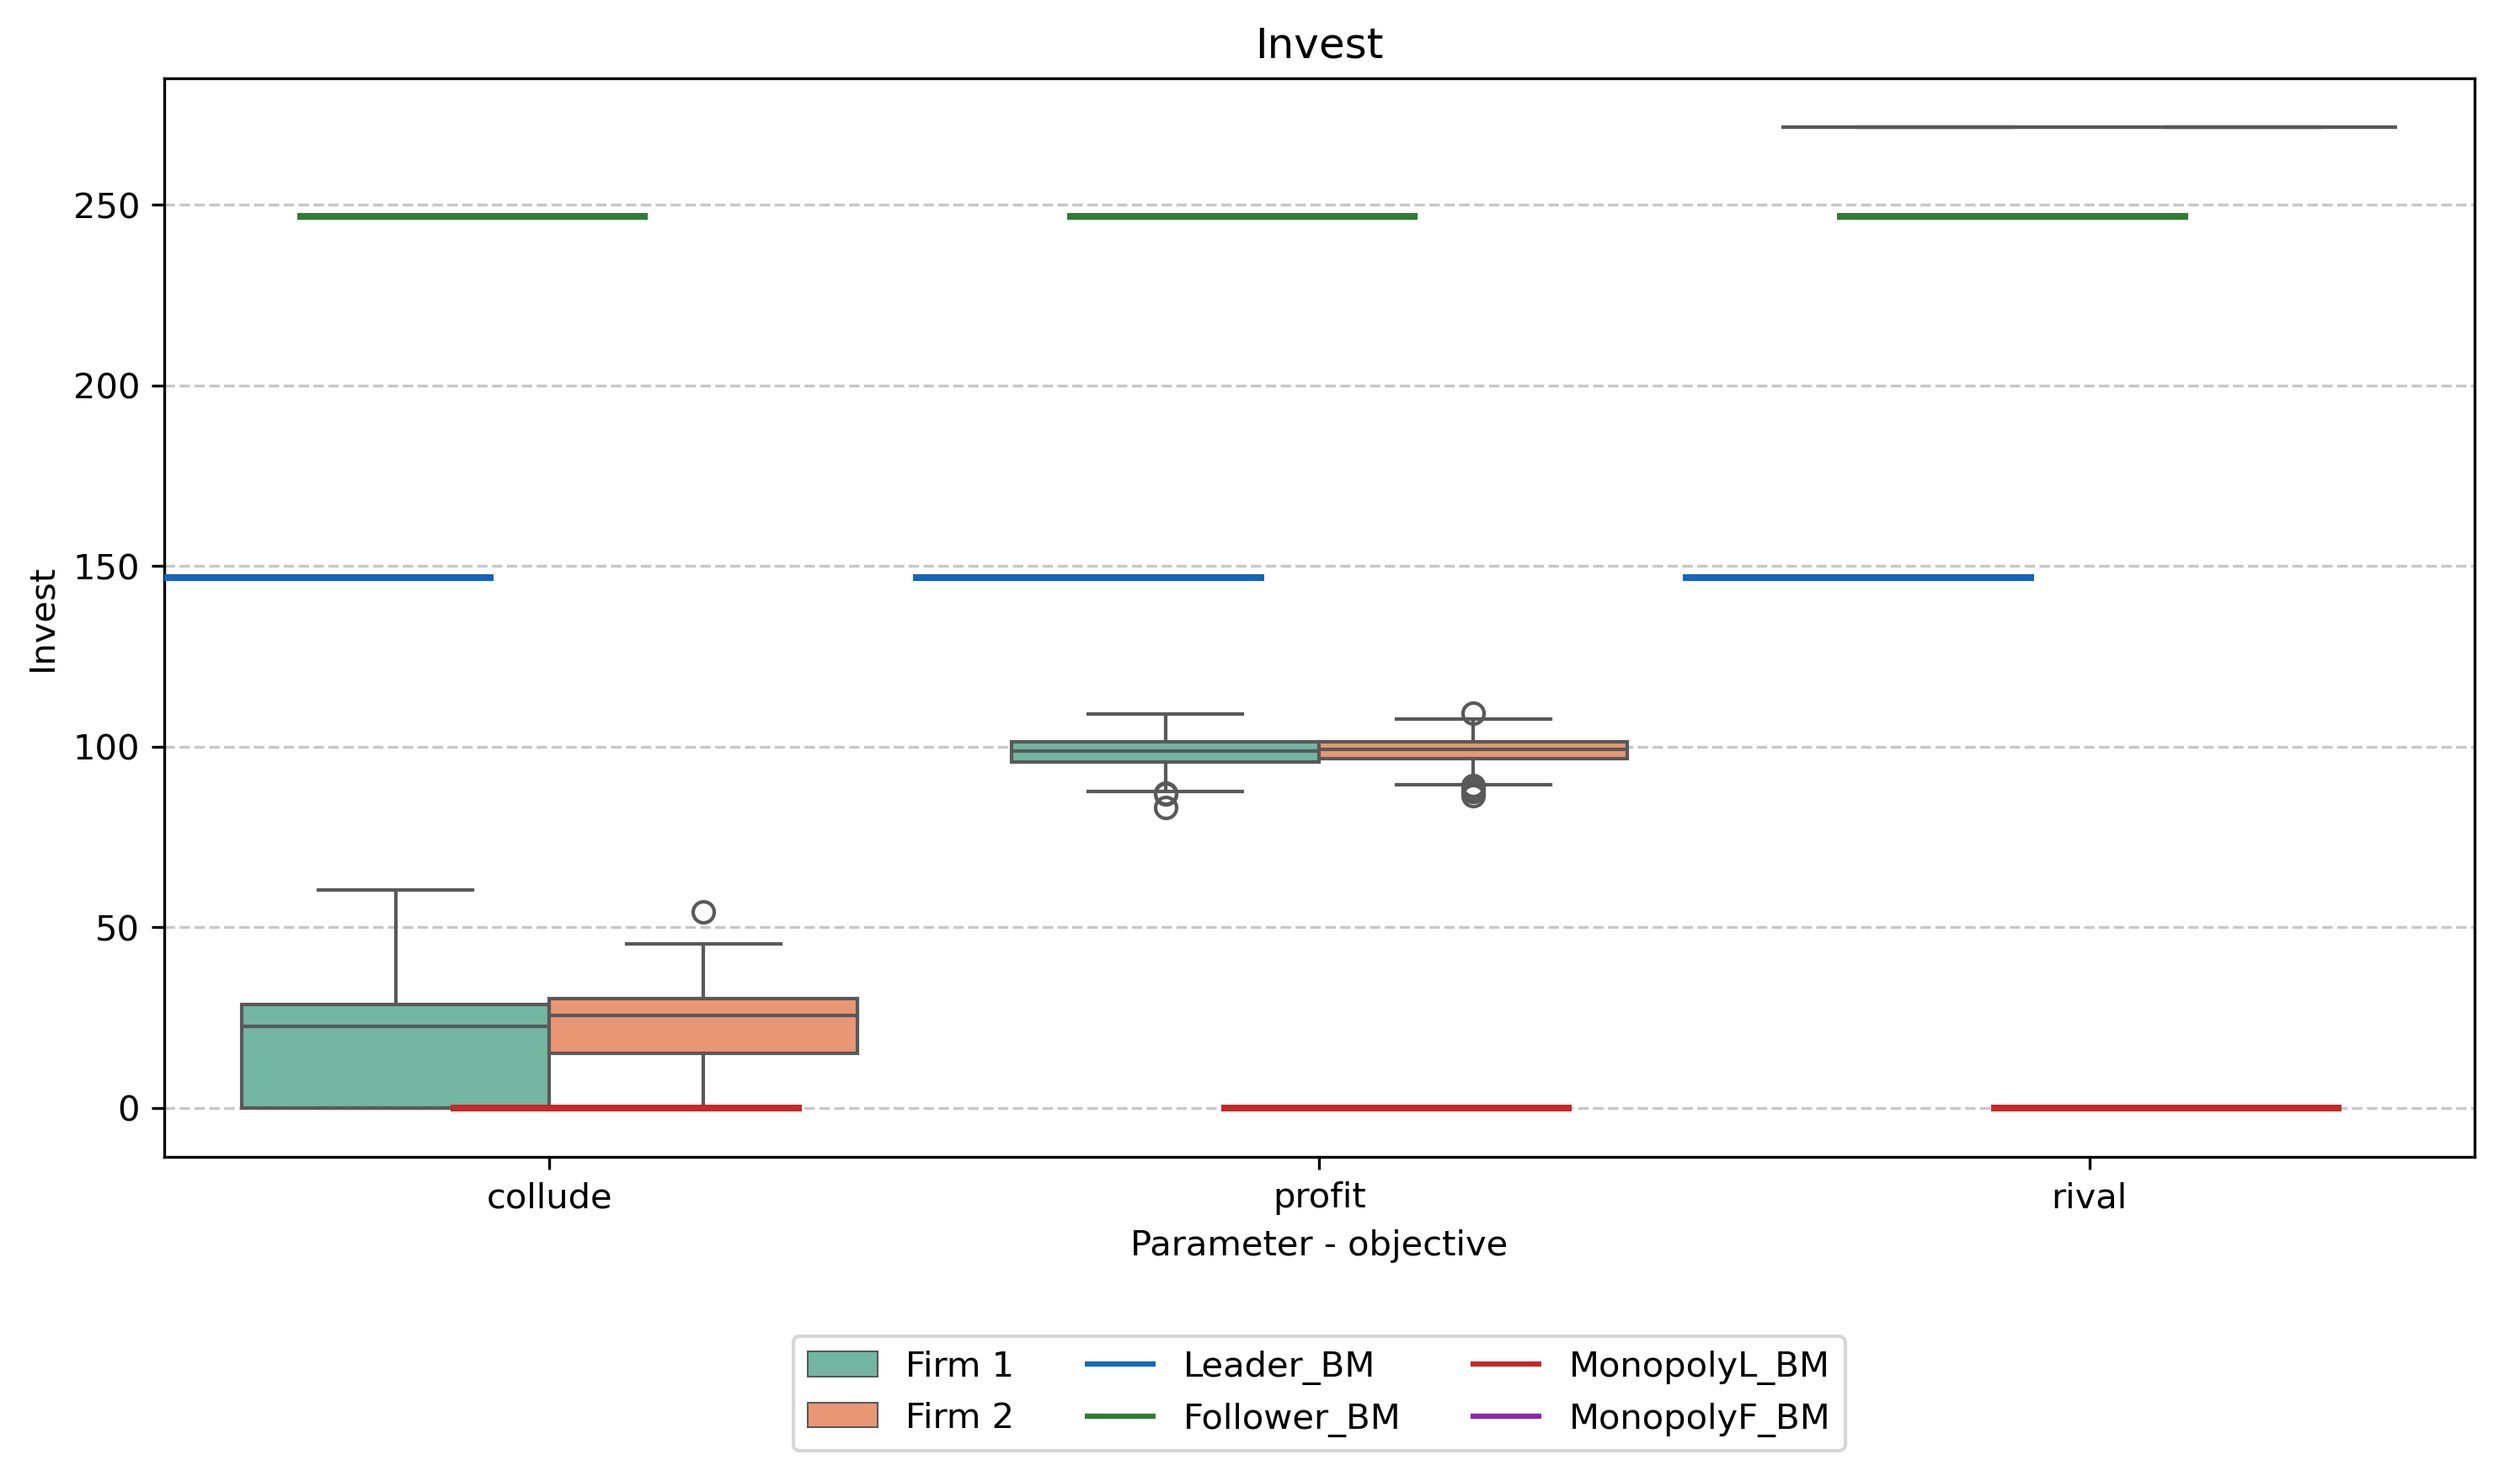
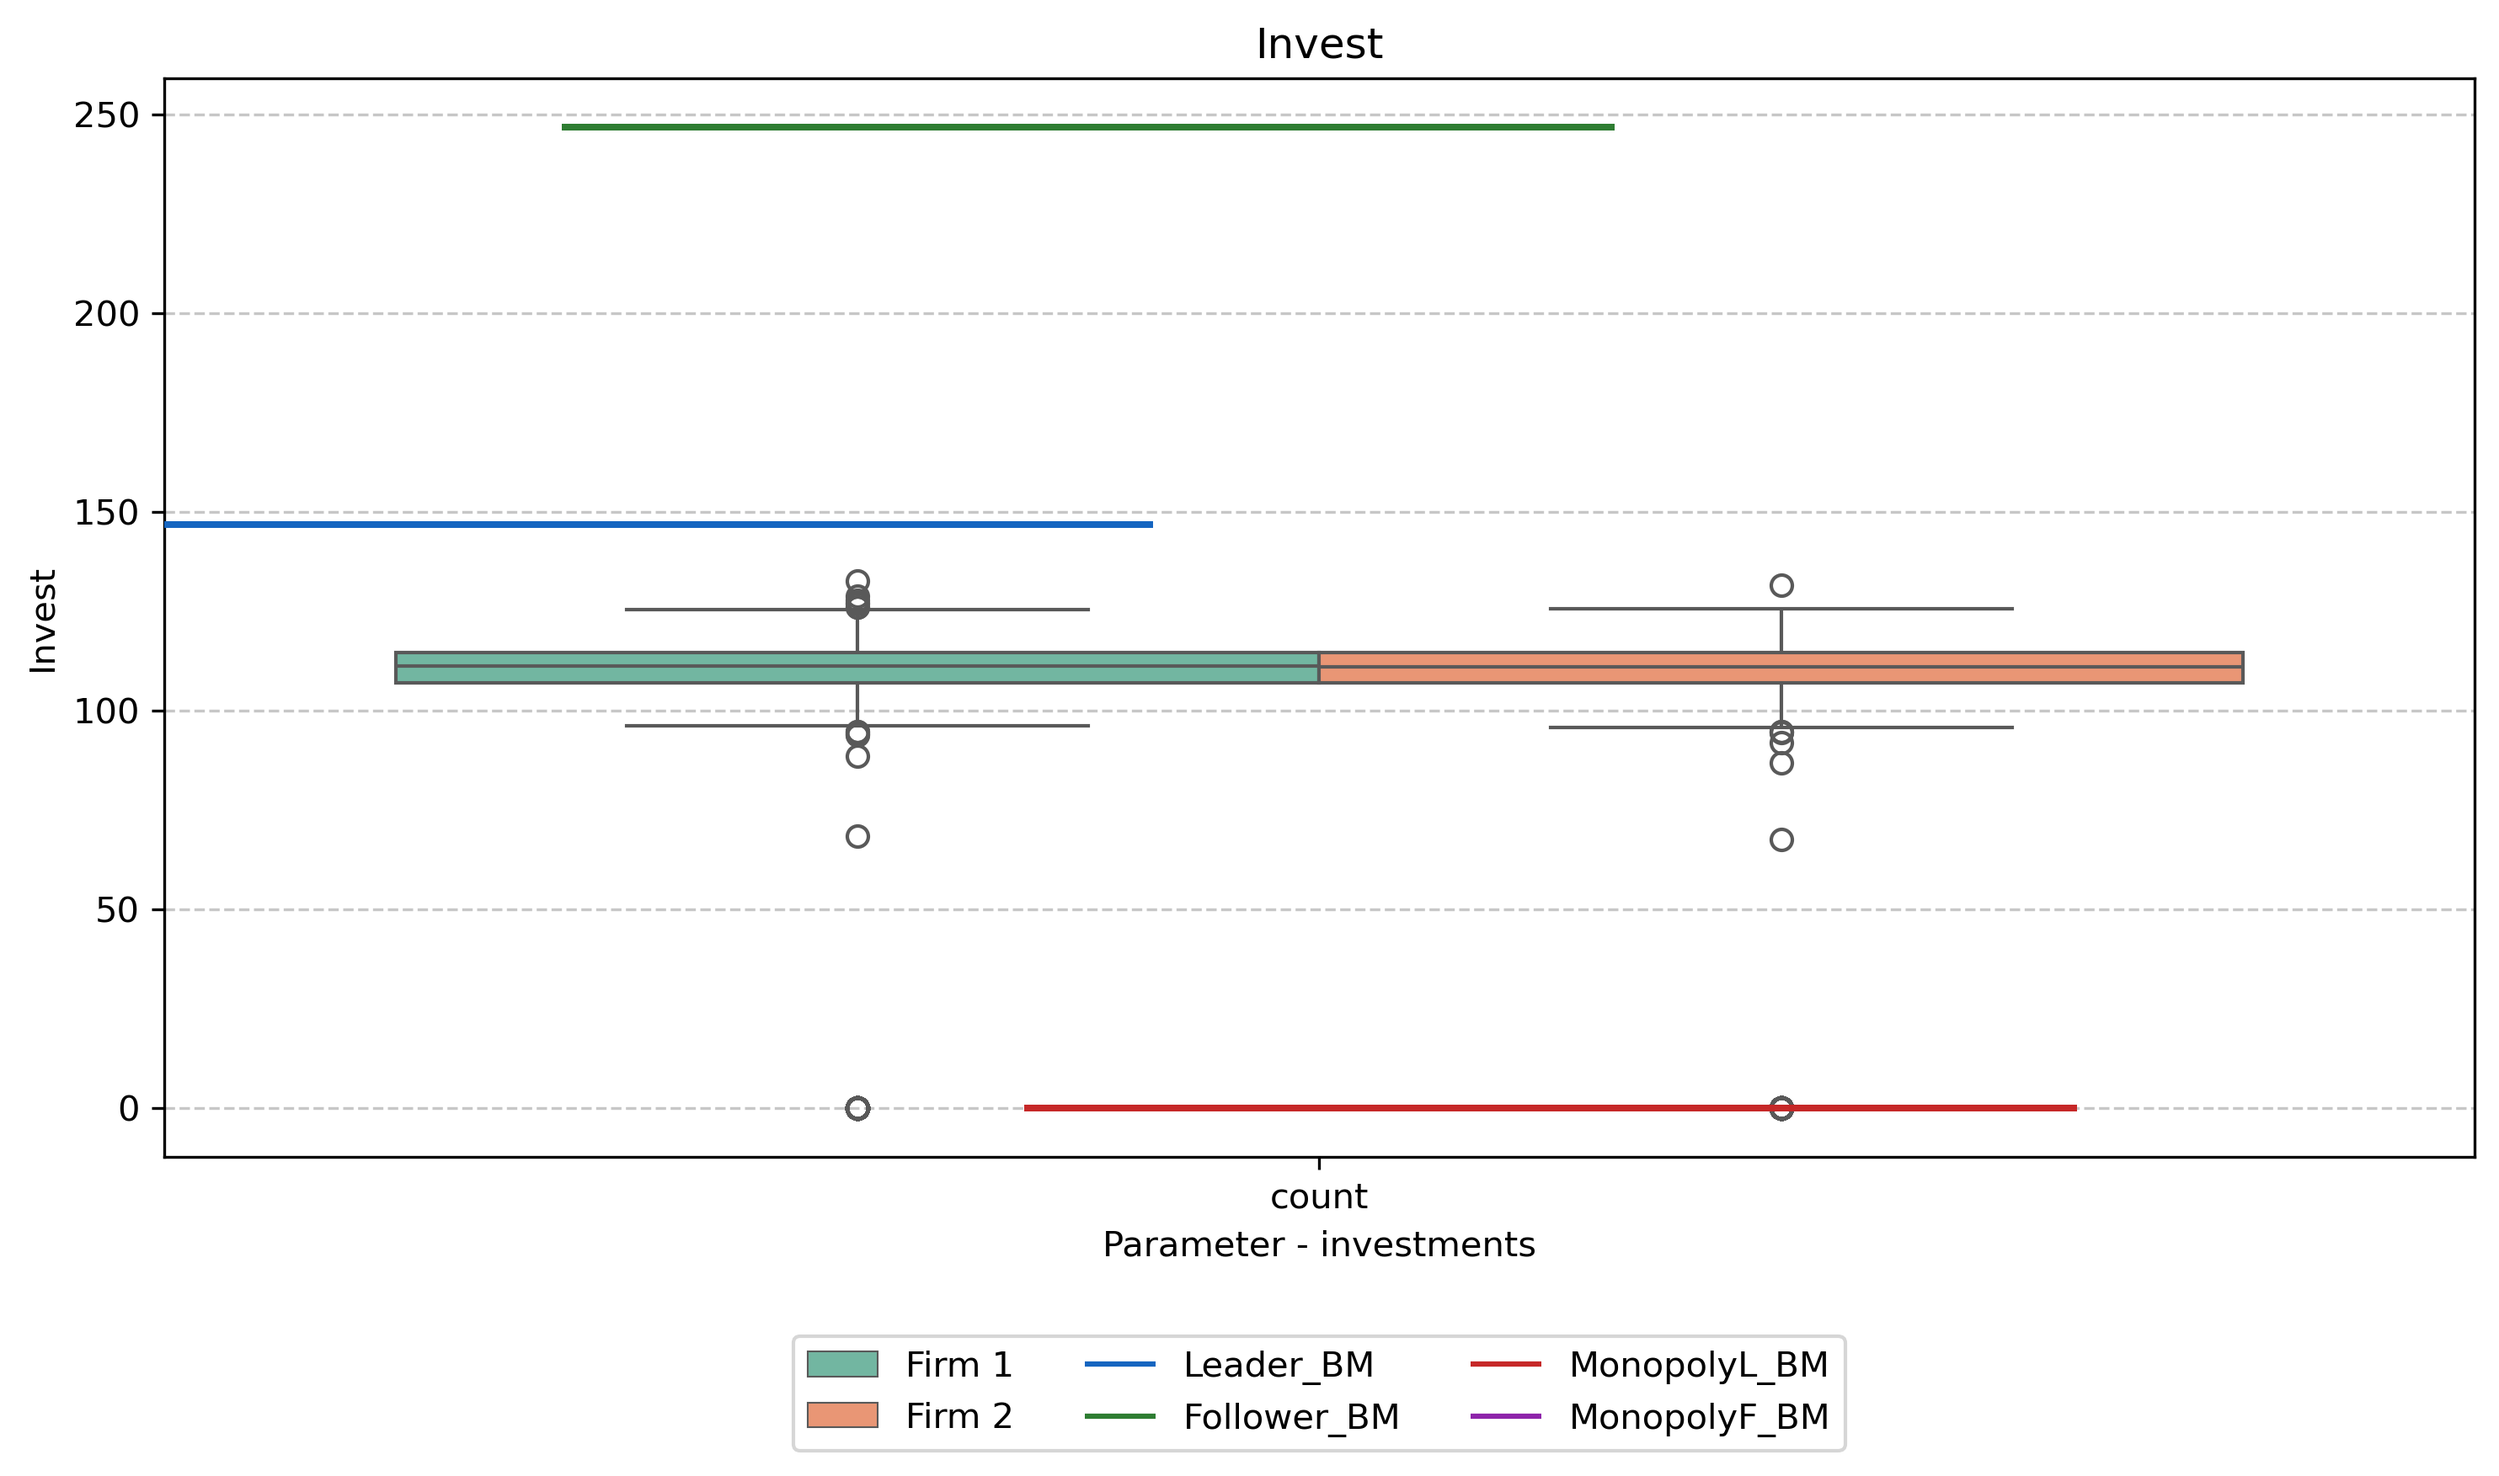
underscore saving issue fix

diff --git a/Main.py b/Main.py
@@ -26,6 +26,7 @@ def Simulate(ClusterTest=False,Progress=True):
     parser.add_argument("--mrktsz",type=float,default=None)
     parser.add_argument("--mc",type=float,default=None)
     parser.add_argument("--objective", type=str, default=None)
+    parser.add_argument("--investments", type=int, default=None)
 
         #simulation details
     parser.add_argument("--plot", type=float, default=False)
@@ -42,7 +43,8 @@ def Simulate(ClusterTest=False,Progress=True):
         "alpha":args.alpha,
         "mrktsz":args.mrktsz,
         "mc":args.mc,
-        "objective":args.objective
+        "objective":args.objective,
+        "investments_count":args.investments
     }
 
     # Remove None values
@@ -378,6 +380,6 @@ def Simulate(ClusterTest=False,Progress=True):
             Price_statlog,Invest_statlog,Profits_statlog,State_logs,CS_Theory_Stat,CS_Real_Stat,M_Theory_Stat,M_Real_Stat,MarketShares_Stat,Round,
             config,params,args.iteration)
 
-#Simulate(True,False) #cluster
-Simulate() # local
+Simulate(True,False) #cluster
+#Simulate() # local
 #Simulate(True,True) #cluster progress

diff --git a/Visualize.py b/Visualize.py
@@ -1191,6 +1191,8 @@ def Routine_Results(PriceStat,InvestStat,ProfitStat,State_logs,CS_Theory,CS_Real
     else:
         key, value = next(iter(TestParameter.items()))
 
+    key = key.replace("_", "")
+
     df.to_parquet(f"{OutputLoc}/run_{key}_{value}_{ParIt}.parquet")
 
 def PlotParallel(value_name,marketleader=None):

diff --git a/test.py b/test.py
@@ -1,7 +1,8 @@
 import pandas as pd
 
 # 1. Read the Parquet file into a pandas DataFrame
-df = pd.read_parquet(r'TrainingResultsC\run_firms_4_1.parquet')
+df = pd.read_parquet(r'TrainingResultsC\run_investments_count_1_1.parquet')
+
 
 
 # 2. Export the DataFrame to an Excel spreadsheet

diff --git a/Settings.py b/Settings.py
@@ -27,7 +27,7 @@ class Config:
     learningrate: float = 0.25
     #State variables
     prices_count = 15
-    investments_count = 7
+    investments_count:int = 7
     price_interval_margin = 0.02
     investment_interval_margin = 0.1
     objective:str="profit"
